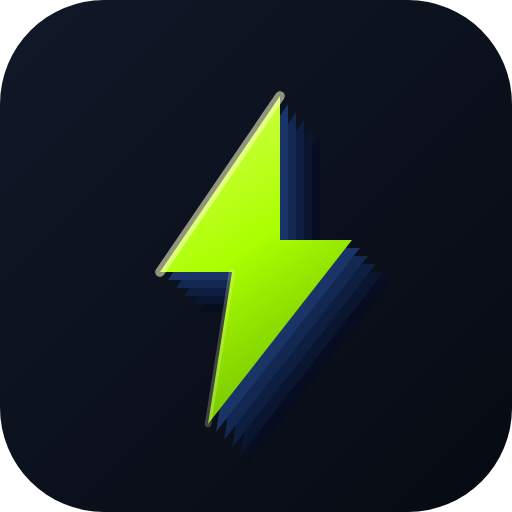
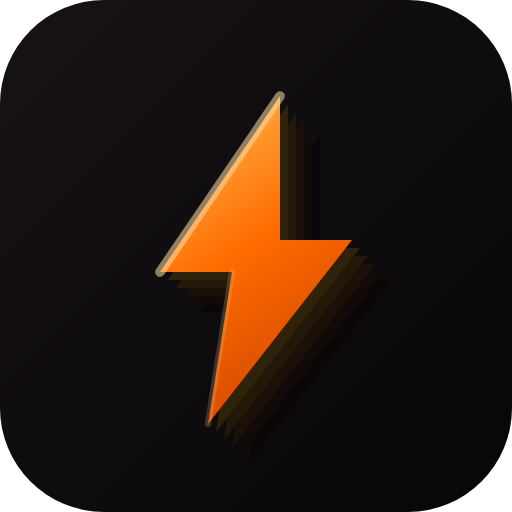
redesign: orange color scheme + dark/light mode + Apple ring glow + large stat cards
Claude-Session: https://claude.ai/code/session_01PxfnLPf97WLs4ZoA8HMjpN

Changed region(s): [[0.3125, 0.1562, 0.75, 0.875]]

diff --git a/index.html b/index.html
@@ -13,12 +13,21 @@
 <link rel="apple-touch-icon" sizes="192x192" href="fitness-icon-192.png">
 <style>
 :root {
-  --bg:#05080F;--bg2:#0C1525;--bg3:#132038;--bg4:#1B2D48;
-  --label:#EEF2FF;--label2:#697A96;--label3:rgba(238,242,255,0.28);
-  --sep:rgba(255,255,255,0.07);--fill:rgba(170,255,0,0.08);
-  --accent:#AAFF00;--accent-dark:#040800;--accent-cont:rgba(170,255,0,0.12);
-  --green:#AAFF00;--orange:#FF8C00;--red:#FF4055;
+  --bg:#0A0A0F;--bg2:#141418;--bg3:#1C1C22;--bg4:#26262E;
+  --label:#F5F5FF;--label2:#888898;--label3:rgba(245,245,255,0.28);
+  --sep:rgba(255,255,255,0.07);--fill:rgba(255,107,0,0.08);
+  --accent:#FF6B00;--accent-dark:#1A0800;--accent-cont:rgba(255,107,0,0.15);
+  --green:#30D158;--orange:#FF8C00;--red:#FF453A;
+  --card-bg:linear-gradient(145deg,#1A1A20,#111116);--card-border:rgba(255,255,255,0.07);
   --safe-top:env(safe-area-inset-top);--safe-bottom:env(safe-area-inset-bottom);
+}
+body.light-mode{
+  --bg:#F2F2F7;--bg2:#FFFFFF;--bg3:#E8E8EF;--bg4:#D4D4DC;
+  --label:#0A0A0F;--label2:#6E6E80;--label3:rgba(10,10,15,0.35);
+  --sep:rgba(0,0,0,0.08);--fill:rgba(255,85,0,0.06);
+  --accent:#FF5500;--accent-dark:#FFFFFF;--accent-cont:rgba(255,85,0,0.12);
+  --green:#34C759;--orange:#FF6B00;--red:#FF3B30;
+  --card-bg:linear-gradient(145deg,#FFFFFF,#F8F8FC);--card-border:rgba(0,0,0,0.08);
 }
 *{box-sizing:border-box;margin:0;padding:0;-webkit-tap-highlight-color:transparent;}
 html,body{height:100%;height:100dvh;font-family:Roboto,system-ui,-apple-system,sans-serif;background:var(--bg);color:var(--label);overflow:hidden;font-variant-numeric:tabular-nums;}
@@ -107,6 +116,7 @@ html,body{height:100%;height:100dvh;font-family:Roboto,system-ui,-apple-system,s
 .ring-svg{width:220px;height:220px;transform:rotate(-90deg);}
 .ring-track{fill:none;stroke:var(--bg3);stroke-width:18;}
 .ring-fill{fill:none;stroke:var(--accent);stroke-width:18;stroke-linecap:round;stroke-dasharray:502.65;stroke-dashoffset:502.65;transition:stroke-dashoffset 0.8s cubic-bezier(0.4,0,0.2,1),stroke 0.3s;}
+.ring-svg{overflow:visible;}
 .ring-center{position:absolute;inset:0;display:flex;flex-direction:column;align-items:center;justify-content:center;gap:2px;}
 .ring-num{font-size:64px;font-weight:700;letter-spacing:-3px;line-height:1;}
 .ring-num.r-done{color:var(--green);}
@@ -115,7 +125,7 @@ html,body{height:100%;height:100dvh;font-family:Roboto,system-ui,-apple-system,s
 .ring-countdown{font-size:12px;color:var(--label3);margin-top:6px;}
 
 .deals-grid{display:flex;flex-direction:column;gap:20px;width:100%;}
-.deal-card{background:linear-gradient(145deg,#0F1E38,#0A1420);border:1px solid rgba(255,255,255,0.07);border-radius:20px;padding:22px 20px;width:100%;display:flex;flex-direction:column;align-items:center;gap:16px;}
+.deal-card{background:var(--card-bg);border:1px solid var(--card-border);border-radius:20px;padding:22px 20px;width:100%;display:flex;flex-direction:column;align-items:center;gap:16px;}
 .deal-card-header{display:flex;align-items:center;justify-content:space-between;width:100%;}
 .deal-card-title{font-size:16px;font-weight:600;}
 .deal-card-streak{font-size:12px;color:var(--orange);font-weight:600;background:rgba(255,140,0,0.12);padding:3px 10px;border-radius:20px;}
@@ -150,7 +160,7 @@ html,body{height:100%;height:100dvh;font-family:Roboto,system-ui,-apple-system,s
 
 /* Log sheet */
 #s-log{background:rgba(0,0,0,0.6);justify-content:flex-end;align-items:center;z-index:110;}
-.log-sheet{background:linear-gradient(180deg,#0F1E38,#0A1420);border-radius:28px 28px 0 0;border-top:2px solid rgba(170,255,0,0.35);padding:12px 24px calc(24px + var(--safe-bottom));width:100%;max-width:480px;display:flex;flex-direction:column;align-items:center;gap:16px;animation:slideUp 0.3s cubic-bezier(0.34,1.1,0.64,1);}
+.log-sheet{background:var(--bg2);border-radius:28px 28px 0 0;border-top:2px solid rgba(255,107,0,0.4);padding:12px 24px calc(24px + var(--safe-bottom));width:100%;max-width:480px;display:flex;flex-direction:column;align-items:center;gap:16px;animation:slideUp 0.3s cubic-bezier(0.34,1.1,0.64,1);}
 @keyframes slideUp{from{transform:translateY(100%)}to{transform:translateY(0)}}
 .sheet-handle{width:36px;height:4px;border-radius:2px;background:var(--bg4);margin-bottom:4px;}
 .log-title{font-size:20px;font-weight:500;align-self:flex-start;}
@@ -196,17 +206,17 @@ html,body{height:100%;height:100dvh;font-family:Roboto,system-ui,-apple-system,s
 .cal-week-labels span{font-size:11px;color:var(--label3);text-align:center;font-weight:600;text-transform:uppercase;}
 .cal-grid{display:grid;grid-template-columns:repeat(7,1fr);gap:6px;}
 .cal-cell{aspect-ratio:1;border-radius:50%;display:flex;align-items:center;justify-content:center;font-size:11px;font-weight:600;color:var(--label3);position:relative;border:2px solid transparent;}
-.cal-cell.complete{border-color:var(--accent);color:var(--accent);background:rgba(170,255,0,0.1);}
+.cal-cell.complete{border-color:var(--accent);color:var(--accent);background:rgba(255,107,0,0.12);}
 .cal-cell.partial{border-color:var(--orange);color:var(--orange);background:rgba(245,158,11,0.08);}
 .cal-cell.missed{border-color:transparent;color:var(--label3);background:var(--bg3);}
-.cal-cell.today{border-color:var(--accent);background:var(--accent);color:#040800;font-weight:700;box-shadow:0 0 16px rgba(170,255,0,0.35);}
+.cal-cell.today{border-color:var(--accent);background:var(--accent);color:var(--accent-dark);font-weight:700;box-shadow:0 0 16px rgba(255,107,0,0.4);}
 .cal-cell.future{background:var(--bg2);opacity:0.3;}
 .cal-cell.empty{background:transparent;}
 
 /* Stats */
 #s-stat{padding-bottom:calc(88px + var(--safe-bottom));}
 .stat-body{flex:1;overflow-y:auto;padding:20px 20px 28px;display:flex;flex-direction:column;gap:20px;}
-.stat-card{background:linear-gradient(145deg,#0F1E38,#0A1420);border:1px solid rgba(255,255,255,0.07);border-radius:20px;padding:28px 24px;}
+.stat-card{background:var(--card-bg);border:1px solid var(--card-border);border-radius:20px;padding:28px 24px;}
 .stat-card.wide{width:100%;}
 .stat-label{font-size:11px;color:var(--label2);margin-bottom:14px;font-weight:500;text-transform:uppercase;letter-spacing:0.06em;}
 
@@ -241,6 +251,15 @@ html,body{height:100%;height:100dvh;font-family:Roboto,system-ui,-apple-system,s
 .muscles-tag{display:flex;align-items:center;gap:5px;background:var(--accent-cont);color:var(--accent);border-radius:10px;padding:8px 14px;font-size:13px;font-weight:500;}
 
 .debt-banner{display:flex;align-items:center;gap:14px;background:rgba(255,179,0,0.1);border:1px solid rgba(255,179,0,0.25);border-radius:16px;padding:16px 20px;}
+.stat-big-num{font-size:80px;font-weight:800;letter-spacing:-5px;line-height:1;margin-bottom:4px;}
+.stat-vs-row{display:flex;gap:32px;margin-top:16px;}
+.stat-vs-item{display:flex;flex-direction:column;gap:4px;}
+.stat-vs-val{font-size:36px;font-weight:700;letter-spacing:-1.5px;line-height:1;}
+.stat-vs-lbl{font-size:11px;color:var(--label2);font-weight:500;text-transform:uppercase;letter-spacing:0.08em;}
+.stat-vs-bar{height:6px;border-radius:3px;background:var(--bg4);margin-top:10px;overflow:hidden;position:relative;}
+.stat-vs-bar-fill{height:100%;border-radius:3px;background:var(--accent);transition:width 0.6s ease;}
+.theme-toggle-row{display:flex;align-items:center;gap:12px;}
+.theme-icon{font-size:18px;line-height:1;}
 .debt-num{font-size:32px;font-weight:700;color:var(--orange);letter-spacing:-1.5px;}
 .debt-info{flex:1;font-size:14px;color:var(--label2);line-height:1.5;}
 
@@ -249,7 +268,7 @@ html,body{height:100%;height:100dvh;font-family:Roboto,system-ui,-apple-system,s
 .set-body{flex:1;overflow-y:auto;padding:8px 16px 32px;}
 .set-section-hdr{font-size:12px;font-weight:500;color:var(--accent);text-transform:uppercase;letter-spacing:0.08em;padding:0 6px;margin-top:28px;margin-bottom:8px;}
 .set-section-hdr:first-child{margin-top:8px;}
-.set-group{background:linear-gradient(145deg,#0F1E38,#0A1420);border:1px solid rgba(255,255,255,0.07);border-radius:16px;overflow:hidden;}
+.set-group{background:var(--card-bg);border:1px solid var(--card-border);border-radius:16px;overflow:hidden;}
 .set-row{display:flex;align-items:center;padding:16px 16px;gap:12px;border-bottom:1px solid var(--sep);}
 .set-row:last-child{border-bottom:none;}
 .set-label{flex:1;font-size:16px;}
@@ -264,11 +283,11 @@ html,body{height:100%;height:100dvh;font-family:Roboto,system-ui,-apple-system,s
 .danger-btn:active{background:rgba(207,102,121,0.2);}
 
 /* Toast */
-#toast{position:fixed;top:calc(52px + var(--safe-top));left:50%;transform:translateX(-50%);background:#131E35;border:1px solid rgba(170,255,0,0.25);border-radius:10px;padding:10px 20px;font-size:14px;font-weight:500;white-space:nowrap;z-index:200;opacity:0;pointer-events:none;transition:opacity 0.2s;box-shadow:0 4px 20px rgba(0,0,0,0.6);}
+#toast{position:fixed;top:calc(52px + var(--safe-top));left:50%;transform:translateX(-50%);background:var(--bg2);border:1px solid rgba(255,107,0,0.3);border-radius:10px;padding:10px 20px;font-size:14px;font-weight:500;white-space:nowrap;z-index:200;opacity:0;pointer-events:none;transition:opacity 0.2s;box-shadow:0 4px 20px rgba(0,0,0,0.6);}
 #toast.show{opacity:1;}
 
 /* Install banner */
-#install-banner{position:fixed;bottom:calc(88px + var(--safe-bottom) + 12px);left:16px;right:16px;background:#0C1525;border:1px solid rgba(170,255,0,0.4);border-radius:16px;padding:14px 16px;display:none;align-items:center;gap:12px;z-index:90;box-shadow:0 4px 20px rgba(0,0,0,0.6);}
+#install-banner{position:fixed;bottom:calc(88px + var(--safe-bottom) + 12px);left:16px;right:16px;background:var(--bg2);border:1px solid rgba(255,107,0,0.4);border-radius:16px;padding:14px 16px;display:none;align-items:center;gap:12px;z-index:90;box-shadow:0 4px 20px rgba(0,0,0,0.6);}
 #install-banner.show{display:flex;}
 .ib-icon{width:40px;height:40px;border-radius:10px;flex-shrink:0;object-fit:cover;}
 .ib-text{flex:1;font-size:13px;line-height:1.5;color:var(--label2);}
@@ -299,7 +318,7 @@ canvas.confetti{position:fixed;inset:0;pointer-events:none;z-index:999;}
 .exercise-cards-row{display:flex;gap:8px;width:100%;}
 .exercise-card{flex:1;background:var(--bg2);border:2px solid transparent;border-radius:14px;padding:12px 6px;cursor:pointer;text-align:center;transition:all 0.18s;display:flex;flex-direction:column;align-items:center;gap:8px;}
 .exercise-card.selected{border-color:var(--accent);background:var(--accent-cont);}
-.ec-ring{width:44px;height:44px;border-radius:50%;background:rgba(170,255,0,0.1);display:flex;align-items:center;justify-content:center;}
+.ec-ring{width:44px;height:44px;border-radius:50%;background:rgba(255,107,0,0.12);display:flex;align-items:center;justify-content:center;}
 .ec-ring svg{width:22px;height:22px;fill:none;stroke:var(--accent);stroke-width:1.8;stroke-linecap:round;stroke-linejoin:round;}
 .ec-name{font-size:12px;font-weight:600;line-height:1.3;}
 
@@ -849,6 +868,23 @@ const EXERCISES = {
 
 function updateFab() {}
 
+function toggleTheme() {
+  const isLight = document.body.classList.toggle('light-mode');
+  if (!DATA.settings) DATA.settings = {};
+  DATA.settings.theme = isLight ? 'light' : 'dark';
+  save();
+  renderSettings();
+}
+
+function applyTheme() {
+  const theme = DATA.settings?.theme;
+  if (theme === 'light') { document.body.classList.add('light-mode'); }
+  else if (theme === 'dark') { document.body.classList.remove('light-mode'); }
+  else if (window.matchMedia('(prefers-color-scheme: light)').matches) {
+    document.body.classList.add('light-mode');
+  }
+}
+
 function updateTranslatedUI() {
   applyLang();
   const el = (id) => document.getElementById(id);
@@ -1168,6 +1204,8 @@ function renderDealCard(deal) {
   const numClass = done ? 'r-done' : '';
 
   const eName = exName(deal.exercise);
+  const ringGlow = done ? 'rgba(48,209,88,0.55)' : debt > 0 ? 'rgba(255,140,0,0.55)' : 'rgba(255,107,0,0.55)';
+  const trackOpacity = done ? 'rgba(48,209,88,0.15)' : debt > 0 ? 'rgba(255,140,0,0.15)' : 'rgba(255,107,0,0.15)';
   let chipsHtml = `<div class="chips-row">
     <div class="chip"><div class="chip-val">${target}</div><div class="chip-key">${t('goal')}</div></div>`;
   if (debt > 0) chipsHtml += `<div class="chip c-debt"><div class="chip-val">${debt}</div><div class="chip-key">${t('debt')}</div></div>`;
@@ -1189,9 +1227,9 @@ function renderDealCard(deal) {
     </div>
     <div class="ring-wrap small">
       <svg class="ring-svg small" viewBox="0 0 140 140">
-        <circle class="ring-track" cx="70" cy="70" r="55"/>
+        <circle class="ring-track" cx="70" cy="70" r="55" style="stroke:${trackOpacity}"/>
         <circle class="ring-fill" cx="70" cy="70" r="55"
-          style="stroke-dasharray:${C};stroke-dashoffset:${offset};stroke:${ringColor}"/>
+          style="stroke-dasharray:${C};stroke-dashoffset:${offset};stroke:${ringColor};filter:drop-shadow(0 0 8px ${ringGlow})"/>
       </svg>
       <div class="ring-center">
         <div class="ring-num small ${numClass}">${done ? '✓' : due}</div>
@@ -1543,48 +1581,41 @@ function renderStats() {
     ? `<div class="debt-banner"><div class="debt-num">${debt}</div><div class="debt-info">${t('openDebt')(debt, unit)}</div></div>`
     : '';
 
+  const streakBarW = bestStreak > 0 ? Math.round(streak/bestStreak*100) : (streak>0?100:0);
+  const bestBarW = 100;
   content.innerHTML = `
-    <div class="stat-card wide stat-hero">
-      <div class="stat-hero-ring">
-        <svg viewBox="0 0 120 120">
-          <circle class="h-track" cx="60" cy="60" r="46"/>
-          <circle class="h-fill" cx="60" cy="60" r="46"
-            style="stroke-dasharray:${heroC.toFixed(1)};stroke-dashoffset:${heroOffset};stroke:${heroColor}"/>
-        </svg>
-        <div class="stat-hero-pct" style="color:${heroColor}">${completionRate}%</div>
-      </div>
-      <div class="stat-hero-info">
-        <div class="stat-hero-row">
-          <div class="stat-hero-num">${totalReps.toLocaleString(locale)}</div>
-          <div class="stat-hero-unit">${t('totalUnit')(unit)}</div>
-        </div>
-        <div class="stat-hero-row">
-          <div class="stat-hero-num" style="color:var(--orange)">${totalCal.toLocaleString(locale)}</div>
-          <div class="stat-hero-unit">${t('caloriesBurned')}</div>
-        </div>
-        <div class="stat-hero-row">
-          <div class="stat-hero-num" style="color:var(--accent)">${todayCal}</div>
-          <div class="stat-hero-unit">${t('kcalToday')}</div>
-        </div>
-      </div>
+    <div class="stat-card wide">
+      <div class="stat-label">${t('progress30')}</div>
+      <div class="stat-big-num" style="color:${heroColor}">${completionRate}%</div>
+      <div style="font-size:13px;color:var(--label2);margin-bottom:16px">${completedDays} ${lang()==='he'?'ימים הושלמו מתוך':'days completed out of'} ${daysSinceStart}</div>
+      <div class="progress-chart">${progressBars}</div>
+      <div class="progress-labels"><span>${d30Start}</span><span>${d30End}</span></div>
     </div>
 
-    <div class="stat-card wide streak-visual">
-      <div class="streak-fire">${fireEmoji}</div>
-      <div class="streak-info">
-        <div class="streak-top">
-          <div class="streak-num">${streak}</div>
-          <div class="streak-lbl">${t('dayStreak')}</div>
+    <div class="stat-card wide">
+      <div class="stat-label">${t('dayStreak')} ${fireEmoji}</div>
+      <div class="stat-vs-row">
+        <div class="stat-vs-item">
+          <div class="stat-vs-val" style="color:var(--accent)">${streak}</div>
+          <div class="stat-vs-lbl">${lang()==='he'?'נוכחי':'Current'}</div>
         </div>
-        <div class="streak-bar-bg"><div class="streak-bar-fill" style="width:${streakPct}%"></div></div>
-        <div class="streak-best">${t('best')(bestStreak)}</div>
+        <div class="stat-vs-item">
+          <div class="stat-vs-val" style="color:var(--label2)">${bestStreak}</div>
+          <div class="stat-vs-lbl">${lang()==='he'?'שיא':'Best'}</div>
+        </div>
+      </div>
+      <div class="stat-vs-bar" style="margin-top:14px">
+        <div class="stat-vs-bar-fill" style="width:${streakBarW}%"></div>
       </div>
     </div>
 
     <div class="stat-card wide">
-      <div class="stat-label">${t('progress30')}</div>
-      <div class="progress-chart">${progressBars}</div>
-      <div class="progress-labels"><span>${d30Start}</span><span>${d30End}</span></div>
+      <div class="stat-label">${t('totalUnit')(unit)}</div>
+      <div class="stat-big-num" style="color:var(--label)">${totalReps.toLocaleString(locale)}</div>
+      <div style="display:flex;gap:20px;margin-top:4px">
+        <div><span style="font-size:22px;font-weight:700;color:var(--orange)">${totalCal.toLocaleString(locale)}</span> <span style="font-size:12px;color:var(--label2)">${t('caloriesBurned')}</span></div>
+        <div><span style="font-size:22px;font-weight:700;color:var(--accent)">${todayCal}</span> <span style="font-size:12px;color:var(--label2)">${t('kcalToday')}</span></div>
+      </div>
     </div>
 
     <div class="stat-card wide">
@@ -1629,6 +1660,13 @@ function renderSettings() {
 
   body.innerHTML = `
     ${dealsSection}
+    <div class="set-section-hdr">Appearance</div>
+    <div class="set-group">
+      <div class="set-row">
+        <span class="set-label theme-toggle-row"><span class="theme-icon">${document.body.classList.contains('light-mode') ? '☀️' : '🌙'}</span> ${document.body.classList.contains('light-mode') ? 'Light Mode' : 'Dark Mode'}</span>
+        <button class="toggle ${document.body.classList.contains('light-mode') ? 'on' : ''}" onclick="toggleTheme()"></button>
+      </div>
+    </div>
     <div class="set-section-hdr">${t('language')}</div>
     <div class="set-group">
       <div class="set-row">
@@ -1867,6 +1905,7 @@ function dismissInstallBanner() {
 function init() {
   load();
   applyLang();
+  applyTheme();
   if (activeDeals().length > 0) {
     processDebt();
     document.getElementById('nav').classList.add('show');